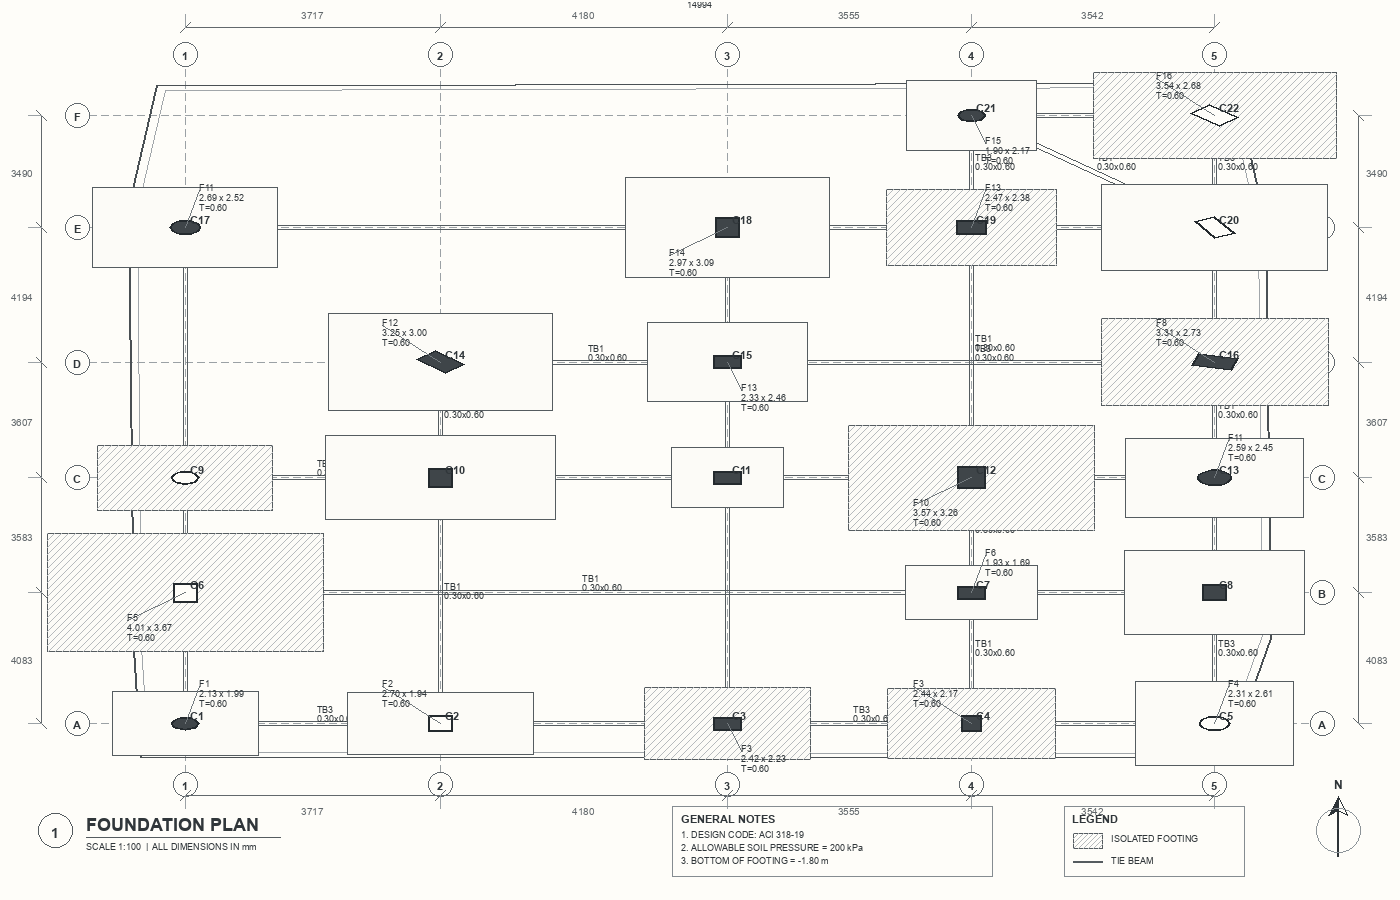
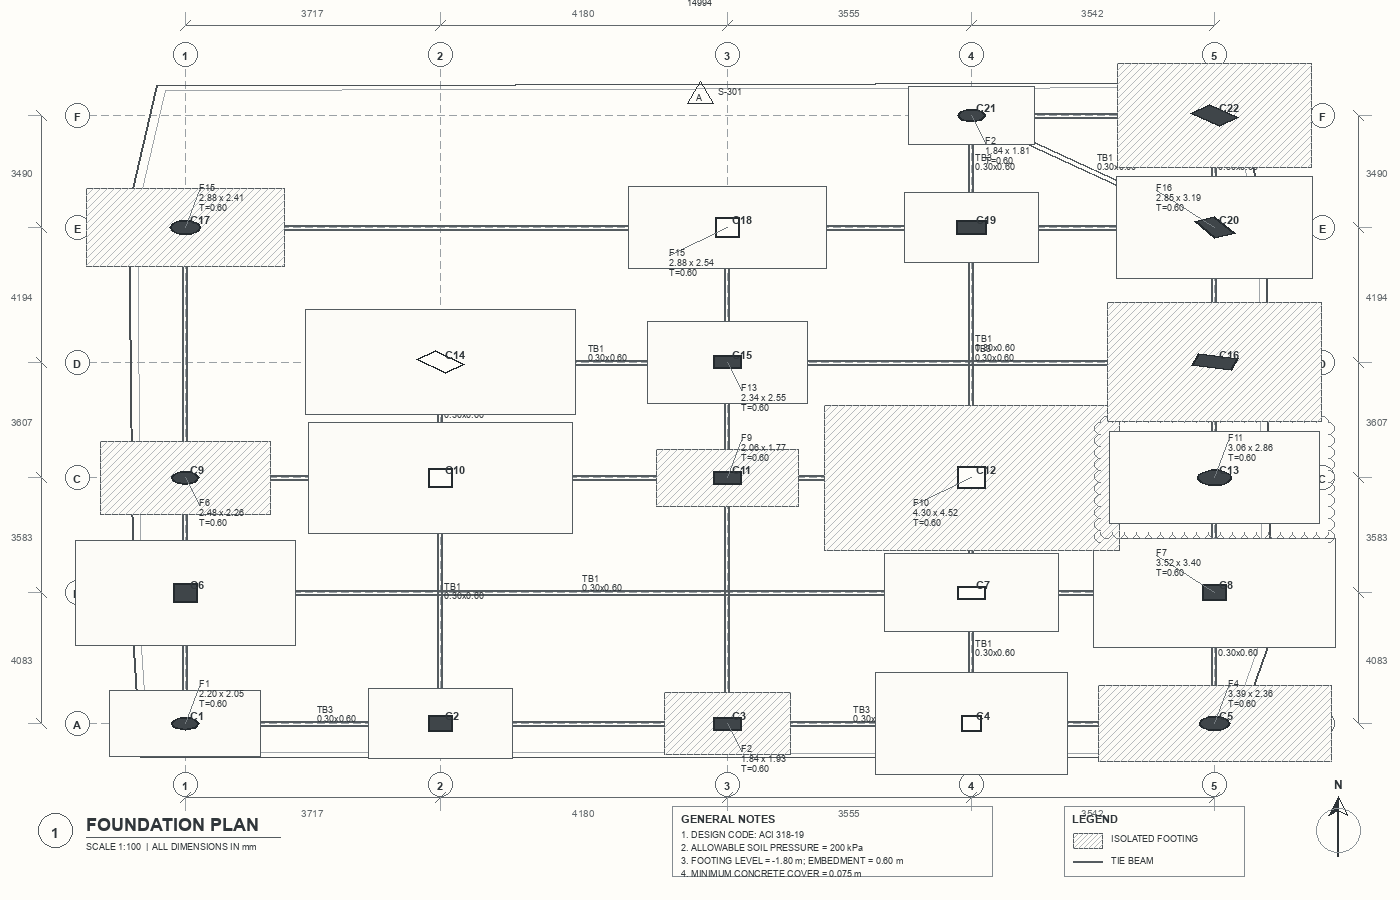
Wire the drafting variations

diff --git a/src/struct2bim/rendering/previews.py b/src/struct2bim/rendering/previews.py
@@ -246,6 +246,17 @@ def _north_arrow(draw: ImageDraw.ImageDraw, center: tuple[int, int]) -> None:
     _centered_text(draw, (x, y - 47), "N", font=_font(12, True), fill="#2D3337")
 
 
+def _revision_cloud(draw: ImageDraw.ImageDraw, box: tuple[int, int, int, int]) -> None:
+    left, top, right, bottom = box
+    radius = 6
+    for x in range(left, right, radius * 2):
+        draw.arc((x, top - radius, x + radius * 2, top + radius), 180, 360, fill="#777D81")
+        draw.arc((x, bottom - radius, x + radius * 2, bottom + radius), 0, 180, fill="#777D81")
+    for y in range(top, bottom, radius * 2):
+        draw.arc((left - radius, y, left + radius, y + radius * 2), 90, 270, fill="#777D81")
+        draw.arc((right - radius, y, right + radius, y + radius * 2), 270, 90, fill="#777D81")
+
+
 def render_annotation_preview(
     scene: Path | dict[str, Any], source_image: Path, output: Path
 ) -> Path:
@@ -465,6 +476,8 @@ def render_geometry_preview(
     grid_font = _font(max(10, size[0] // 125), bold=True)
     note_font = _font(max(9, size[0] // 145))
     label_font = _font(max(10, size[0] // 120), bold=True)
+    lineweight = float(options.get("lineweight_variation", 0.35))
+    primary_width = 1 + round(lineweight * 2)
 
     # Grid axes extend beyond the structural envelope and terminate in bubbles
     # at both sides, as they do on real foundation sheets.
@@ -517,7 +530,7 @@ def render_geometry_preview(
             (min_grid_x - edge_x * 0.92, min_grid_y + span_y * 0.12),
         ]
     boundary = [project(point) for point in boundary_mm]
-    draw.polygon(boundary, outline="#4A5054", width=2)
+    draw.polygon(boundary, outline="#4A5054", width=primary_width)
     center_boundary = (
         sum(point[0] for point in boundary_mm) / len(boundary_mm),
         sum(point[1] for point in boundary_mm) / len(boundary_mm),
@@ -548,8 +561,8 @@ def render_geometry_preview(
         dx, dy = b[0] - a[0], b[1] - a[1]
         length = max(math.hypot(dx, dy), 1)
         offset_x, offset_y = int(-dy / length * 2.5), int(dx / length * 2.5)
-        draw.line((a[0] + offset_x, a[1] + offset_y, b[0] + offset_x, b[1] + offset_y), fill=beam_color, width=1)
-        draw.line((a[0] - offset_x, a[1] - offset_y, b[0] - offset_x, b[1] - offset_y), fill=beam_color, width=1)
+        draw.line((a[0] + offset_x, a[1] + offset_y, b[0] + offset_x, b[1] + offset_y), fill=beam_color, width=primary_width)
+        draw.line((a[0] - offset_x, a[1] - offset_y, b[0] - offset_x, b[1] - offset_y), fill=beam_color, width=primary_width)
         if edge_index % 2 == 0:
             midpoint = ((a[0] + b[0]) / 2, (a[1] + b[1]) / 2)
             draw.multiline_text(
@@ -564,8 +577,12 @@ def render_geometry_preview(
     outline_probability = float(context.get("outline_probability", 0.32))
     overlap_probability = float(context.get("footing_overlap_probability", 0.28))
     variation = float(options.get("footing_size_variation", 0.15))
+    load_variation = float(options.get("column_load_variation", 0.2))
     hatch_density = float(options.get("hatch_density", 0.65))
     annotation_density = float(context.get("annotation_density", 0.8))
+    leader_probability = float(options.get("leader_note_probability", annotation_density))
+    revision_probability = float(options.get("revision_cloud_probability", 0.18))
+    cloud_drawn = False
     footing_types: dict[tuple[int, int], int] = {}
     for index, (entity, polygon) in enumerate(zip(entities, polygons, strict=False), start=1):
         center_mm = _center(entity)
@@ -573,7 +590,7 @@ def render_geometry_preview(
         dimensions = entity.get("dimensions_mm", {})
         diameter = float(dimensions.get("diameter") or 350)
         column_span = max(float(dimensions.get("width") or diameter), float(dimensions.get("depth") or diameter))
-        load_factor = 1 + rng.uniform(-variation, variation)
+        load_factor = 1 + rng.uniform(-variation, variation) + rng.uniform(-load_variation, load_variation) * 0.35
         footing_width = column_span * rng.uniform(4.4, 6.2) * load_factor
         footing_depth = column_span * rng.uniform(4.2, 5.9) * load_factor
         if rng.random() < overlap_probability:
@@ -581,7 +598,7 @@ def render_geometry_preview(
         type_key = (round(footing_width / 300), round(footing_depth / 300))
         footing_type = footing_types.setdefault(type_key, len(footing_types) + 1)
         outer = [project(point) for point in _rect(center_mm, footing_width, footing_depth)]
-        draw.polygon(outer, fill="#FCFBF7", outline=footing_color, width=1)
+        draw.polygon(outer, fill="#FCFBF7", outline=footing_color, width=max(1, primary_width - 1))
         if rng.random() < hatch_probability:
             _draw_hatch(image, outer, "#B6BABD", spacing=max(5, int(12 - hatch_density * 7)))
         points = [project(point) for point in polygon]
@@ -591,12 +608,17 @@ def render_geometry_preview(
             draw.polygon(points, fill="#3F4549", outline="#242A2E", width=2)
         label = str(entity.get("label", f"C{index}"))
         draw.text((center_px[0] + 5, center_px[1] - 13), label, font=label_font, fill=ink)
-        if rng.random() < annotation_density:
+        if rng.random() < leader_probability:
             label_x = center_px[0] + (14 if index % 2 else -58)
             label_y = center_px[1] - 45 if index % 3 else center_px[1] + 20
             draw.line((center_px[0], center_px[1], label_x, label_y + 8), fill="#737A7E", width=1)
             footing_text = f"F{footing_type}\n{footing_width / 1000:.2f} x {footing_depth / 1000:.2f}\nT={float(options.get('footing_thickness_m', 0.6)):.2f}"
             draw.multiline_text((label_x, label_y), footing_text, font=note_font, fill=ink, spacing=1)
+        if not cloud_drawn and rng.random() < revision_probability:
+            xs = [point[0] for point in outer]
+            ys = [point[1] for point in outer]
+            _revision_cloud(draw, (min(xs) - 9, min(ys) - 9, max(xs) + 9, max(ys) + 9))
+            cloud_drawn = True
 
     # Complete grid dimension chains on all four sides.
     x_pixels = [project((value, min_grid_y))[0] for value in x_values]
@@ -604,14 +626,16 @@ def render_geometry_preview(
     x_labels = [f"{abs(second - first):.0f}" for first, second in zip(x_values, x_values[1:], strict=False)]
     reversed_y = list(reversed(y_values))
     y_labels = [f"{abs(second - first):.0f}" for first, second in zip(reversed_y, reversed_y[1:], strict=False)]
-    top_y = project((min_grid_x, max_grid_y + span_y * 0.145))[1]
-    bottom_y = project((min_grid_x, min_grid_y - span_y * 0.118))[1]
+    jitter_px = int(float(options.get("dimension_jitter_mm", 75)) / max(span_y, 1) * size[1])
+    top_y = project((min_grid_x, max_grid_y + span_y * 0.145))[1] + rng.randint(-jitter_px, jitter_px)
+    bottom_y = project((min_grid_x, min_grid_y - span_y * 0.118))[1] + rng.randint(-jitter_px, jitter_px)
     left_x = project((min_grid_x - span_x * 0.14, min_grid_y))[0]
     right_x = project((max_grid_x + span_x * 0.14, min_grid_y))[0]
     _dimension_chain(draw, x_pixels, top_y, x_labels, outward=-1)
-    _dimension_chain(draw, x_pixels, bottom_y, x_labels, outward=1)
     _dimension_chain(draw, y_pixels, left_x, y_labels, vertical=True, outward=1)
-    _dimension_chain(draw, y_pixels, right_x, y_labels, vertical=True, outward=-1)
+    if rng.random() < float(options.get("extra_dimension_probability", 0.6)):
+        _dimension_chain(draw, x_pixels, bottom_y, x_labels, outward=1)
+        _dimension_chain(draw, y_pixels, right_x, y_labels, vertical=True, outward=-1)
     overall_x = f"{max_grid_x - min_grid_x:.0f}"
     _centered_text(draw, ((x_pixels[0] + x_pixels[-1]) / 2, top_y - 24), overall_x, font=note_font, fill=ink)
 
@@ -630,7 +654,8 @@ def render_geometry_preview(
     notes = [
         f"1. DESIGN CODE: {options.get('design_code', 'ACI 318-19')}",
         f"2. ALLOWABLE SOIL PRESSURE = {float(options.get('soil_bearing_capacity_kpa', 200)):.0f} kPa",
-        f"3. BOTTOM OF FOOTING = {float(options.get('footing_bottom_m', -1.8)):.2f} m",
+        f"3. FOOTING LEVEL = {float(options.get('footing_bottom_m', -1.8)):.2f} m; EMBEDMENT = {float(options.get('column_embedment_m', 0.6)):.2f} m",
+        f"4. MINIMUM CONCRETE COVER = {float(options.get('concrete_cover_m', 0.075)):.3f} m",
     ]
     for line_index, line in enumerate(notes):
         draw.text((notes_x + 9, notes_y + 23 + line_index * 13), line, font=note_font, fill=ink)